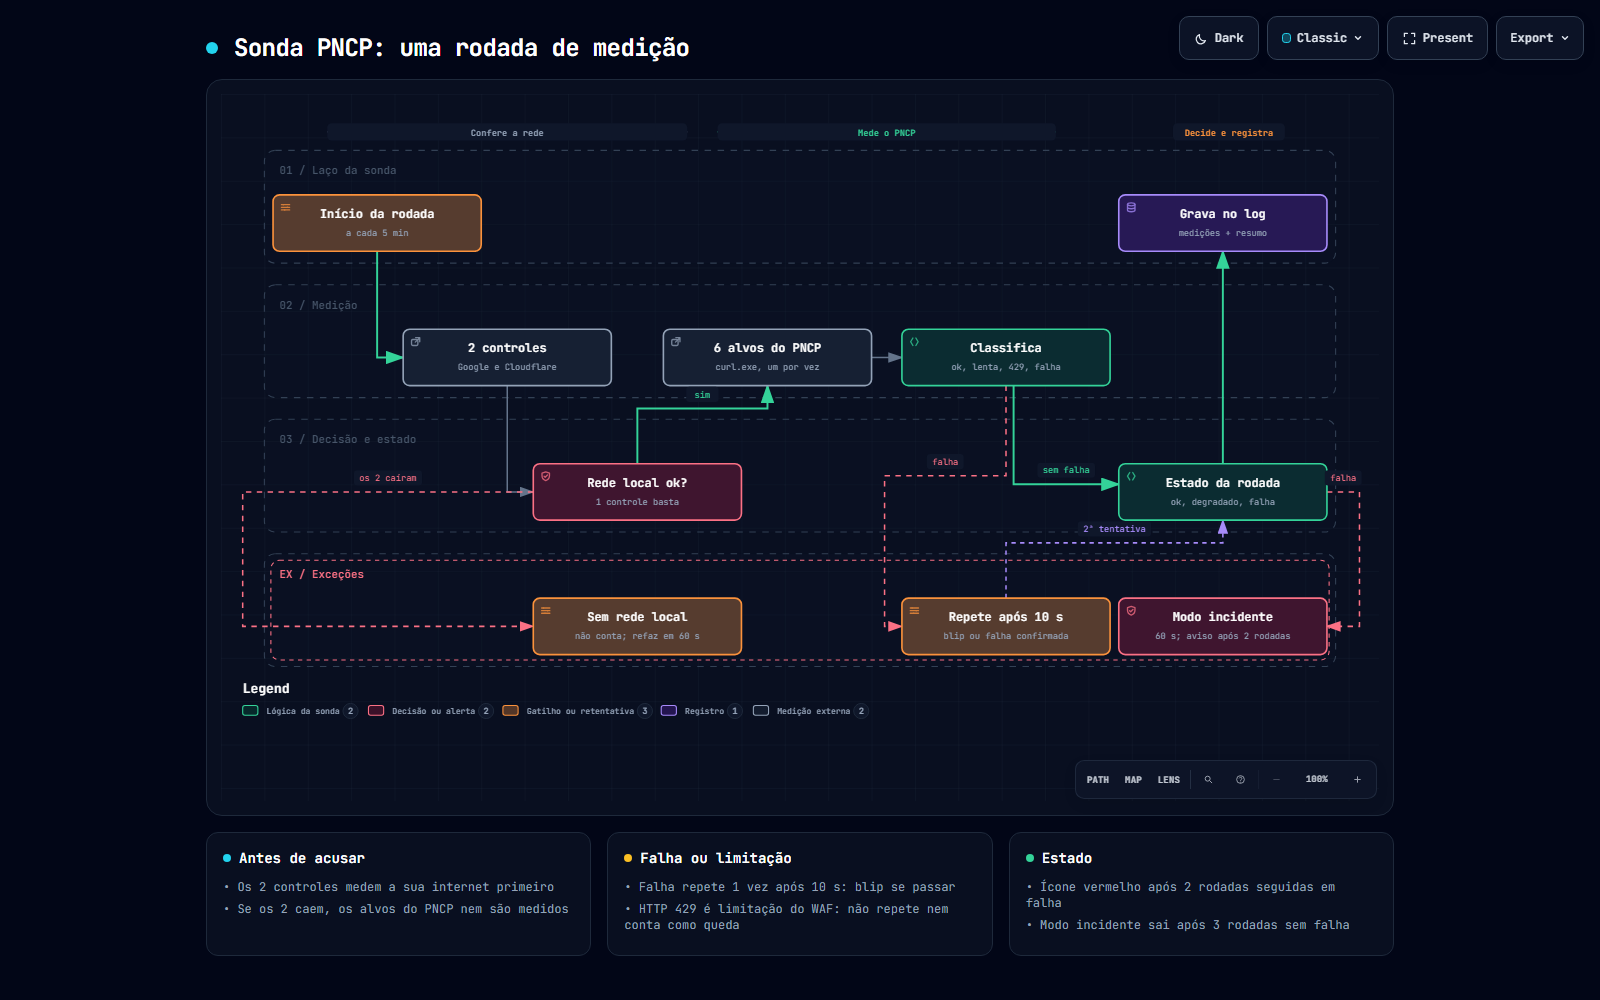
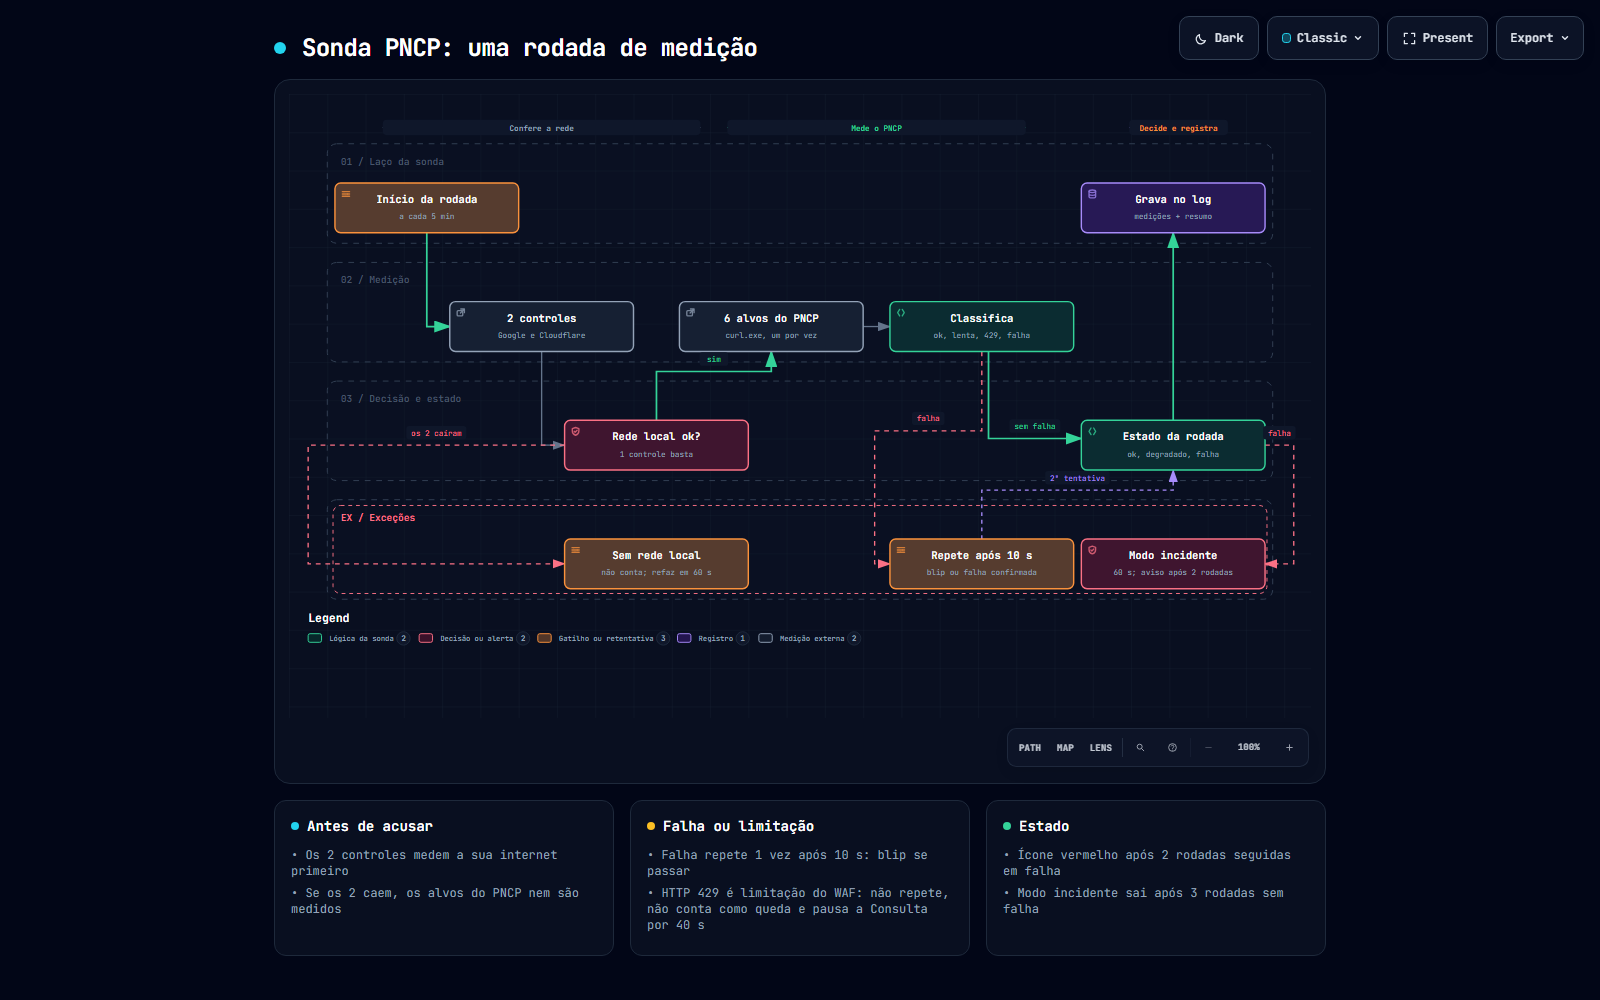
docs: README e diagramas refletem limites do PNCP, pausa apos 429, Support ID e corpo de 8 KB (1.8-1.9)

diff --git a/docs/arquitetura.html b/docs/arquitetura.html
@@ -5550,7 +5550,7 @@ OTHER DEALINGS IN THE FONT SOFTWARE.
         <ul>
           <li>&bull; 2 controles + 6 alvos do PNCP a cada rodada</li>
           <li>&bull; Falha repete após 10 s: blip ou falha confirmada</li>
-          <li>&bull; HTTP 429 é limitação do WAF, não queda</li>
+          <li>&bull; HTTP 429 é limitação: pausa 40 s, não é queda</li>
         </ul>
       </div>
 
@@ -5561,7 +5561,7 @@ OTHER DEALINGS IN THE FONT SOFTWARE.
         </div>
         <ul>
           <li>&bull; Um log JSONL por dia, hora local e UTC</li>
-          <li>&bull; Falha guarda IP, cabeçalhos e trecho do corpo</li>
+          <li>&bull; Falha guarda IP, cabeçalhos, 8 KB do corpo e Support ID</li>
           <li>&bull; Lacuna diz se o PC parou ou a sonda caiu</li>
         </ul>
       </div>

diff --git a/docs/rodada.html b/docs/rodada.html
@@ -5578,7 +5578,7 @@ OTHER DEALINGS IN THE FONT SOFTWARE.
         </div>
         <ul>
           <li>&bull; Falha repete 1 vez após 10 s: blip se passar</li>
-          <li>&bull; HTTP 429 é limitação do WAF: não repete nem conta como queda</li>
+          <li>&bull; HTTP 429 é limitação do WAF: não repete, não conta como queda e pausa a Consulta por 40 s</li>
         </ul>
       </div>
 

diff --git a/README.md b/README.md
@@ -76,7 +76,8 @@ fragmenta nada:
 
 Disponibilidade = (ok + lentas) / (ok + lentas + falhas), 1ª tentativa de
 cada medição. HTTP 429 é limitação do WAF, **não queda**: fica fora da
-conta e nunca acelera a sondagem. Detalhes em [MANUAL.md](MANUAL.md#relatório).
+conta, nunca acelera a sondagem e faz a sonda esperar 40 s antes de chamar a API
+de Consulta de novo. Detalhes em [MANUAL.md](MANUAL.md#relatório).
 
 ## Instalação
 
@@ -117,8 +118,15 @@ classificação de erros, máquina de estados, lacunas, relatório).
   desligado ou suspenso (inclusive o "Desligar" com Inicialização Rápida),
   PC reiniciado ou sonda parada com o PC ligado.
 - **Evidência completa na falha.** Falha grava IP, cabeçalhos completos,
-  trecho do corpo e o horário do erro segundo o próprio PNCP; sucesso
-  grava só o hash do corpo.
+  até 8 KB do corpo (a causa de um erro Java costuma estar no fim), o
+  Support ID do WAF e o horário do erro segundo o próprio PNCP; sucesso
+  grava só o hash do corpo. O relatório traz a URL de cada ocorrência, o IP
+  público de origem e um `curl` para reproduzir: o PNCP não devolve ID de
+  requisição, então horário UTC + URL + IP é o que acha a chamada nos logs deles.
+- **Educada com o PNCP.** O PNCP limita por IP (5 requisições a cada 15 s na classe mais restrita da API de
+  Consulta, bloqueio de 40 s). A sonda faz no máximo 3 chamadas a cada 15 s à Consulta, em sequência, e
+  em cada 429 grava o Support ID e há quanto tempo outro programa da máquina (o `motor_pncp`) requisitou
+  o PNCP: o limite soma todo o tráfego do mesmo IP. Ver [MANUAL.md](MANUAL.md#limites-do-pncp-e-o-que-a-sonda-faz).
 - **A sonda não morre calada.** Erro interno vira evento no log e linha em
   `logs/sonda-erros.log` (que vai primeiro: é o que sobra quando o log é o
   problema); o laço continua, e um vigia na bandeja pinta o ícone de vermelho
